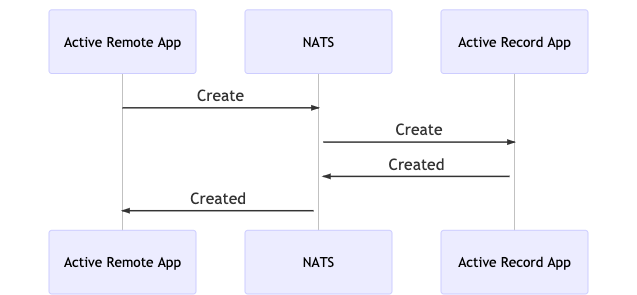
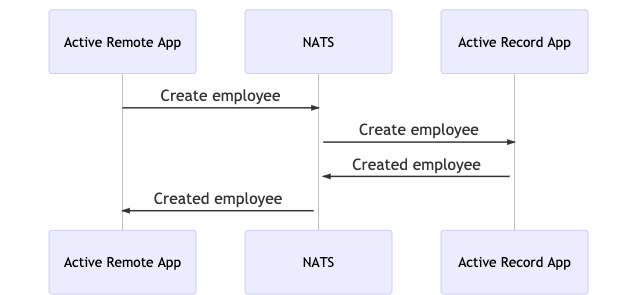
Content for chap 9

diff --git a/100-chapter-09.md b/100-chapter-09.md
@@ -8,11 +8,13 @@ Before we can dive into building our distributed environment, we'll first need t
 
 We'll use the terms images and containers. While these terms are sometimes used interchangeably, there are distinct differences. Docker images are the file structure of an application on your hard drive (think of an image as the files in your project folder). A Docker container is a running instance of the image (think of a container as the instance of your application). One or more containers can be spun up from a single image, as long as separate service names have been provided. Another example is you can run multiple instances of a Rails app from the same directory by specifying a different port number (e.g. `rails server -p 3000` and `rails server -p 3001`).
 
-The sandbox environment we'll build in this chapter will use the Active Remote gem to spin up a client (we'll call this app `active-remote`) that can access data in the service that owns the data (we'll call this app `active-record` because it will use Active Record to persist the data to a database that only it has access to). As Figure 9-1 shows, we'll also use NATS to as as an intermediary messaging system.
+The sandbox environment we'll build in this chapter will use the Active Remote gem to spin up a client (we'll call this app `active-remote`) that can access data in the service that owns the data (we'll call this app `active-record` because it will use Active Record to persist the data to a database that only it has access to).
+
+In this environment, we'll use NATS to pass messages between our microservices. A request to create a new employee will be sent from the Active Remote app to NATS, and NATS will forward the request to any services that have subscribed to that route. The Active Record app that we build will subsribe and respond with the newly created employee entity wrapped in a Protobuf message.
 
 ![alt text](images/active-remote-sequence-diagram.png "Active Remote message passing between applications")
 
-Figure 9-1 - Active Remote Message Passing
+_**Figure 9-1**_ Active Remote Message Passing
 
 ## Install Docker
 
